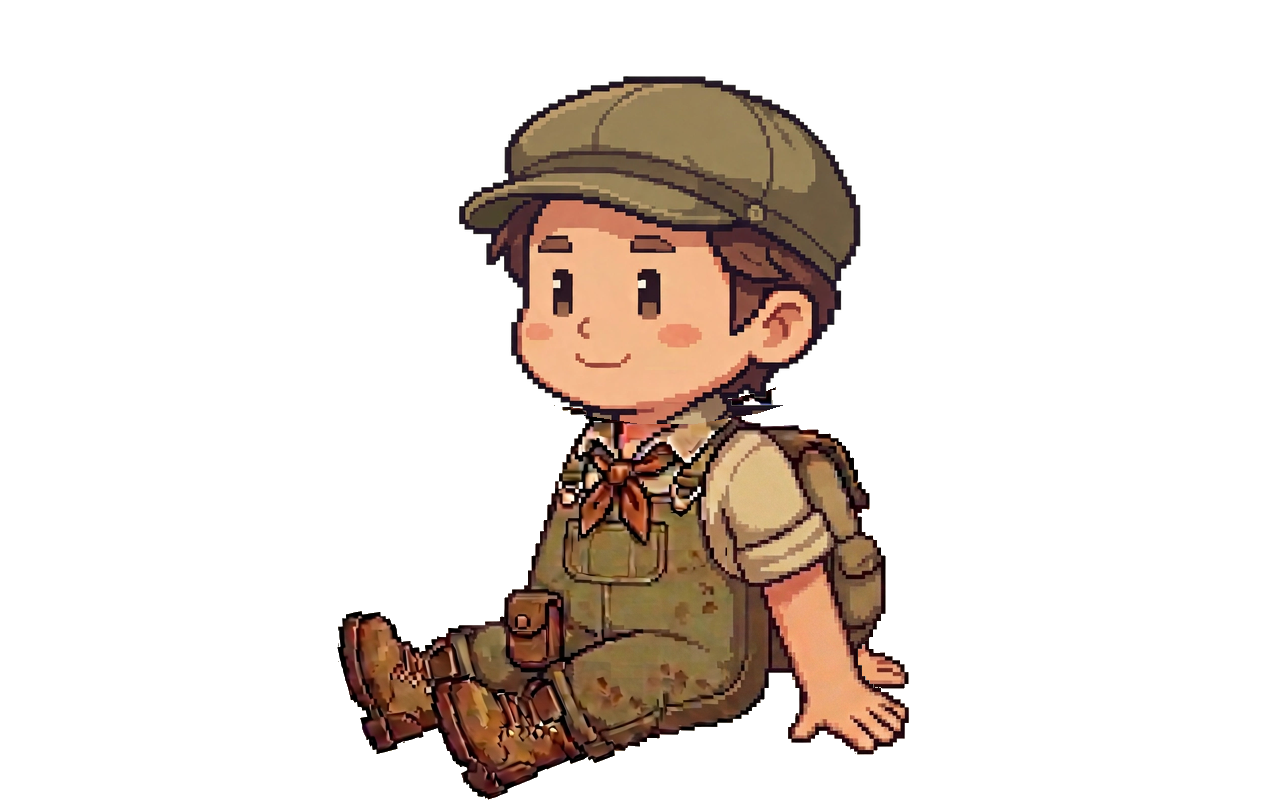
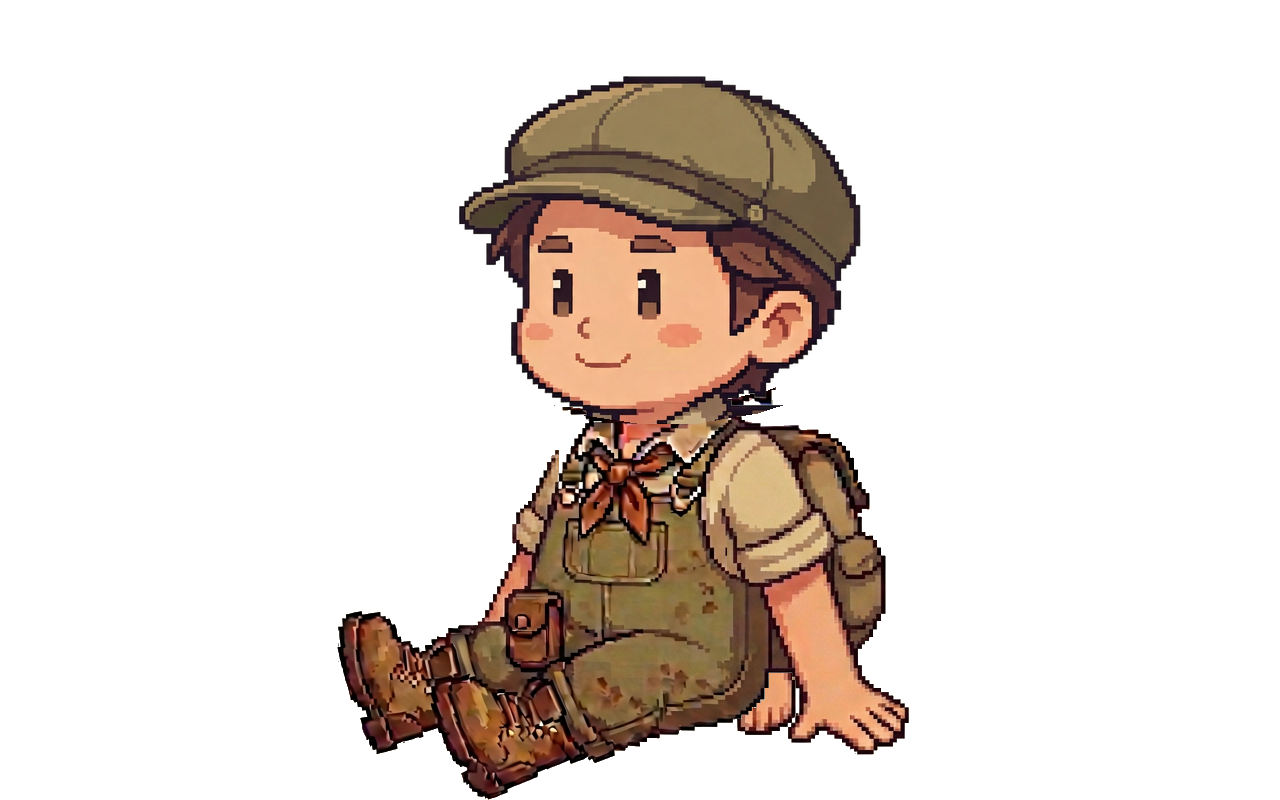
Move far seated hand closer to hip

Changed region(s): [[0.375, 0.5625, 0.4375, 0.7812], [0.5625, 0.8438, 0.625, 0.9375], [0.6562, 0.8125, 0.7188, 0.875]]

diff --git a/preview/app.js b/preview/app.js
@@ -1754,7 +1754,7 @@
   const characterShadowMasks=new WeakMap();
   const idleBowController=window.PlayerIdleBow.create();
   const idleBowFrames=Object.fromEntries(['front','back'].map(side=>[side,
-    ['transition','concept','sit-lowering','sit-nearly','sitting'].map(pose=>{const image=new Image();image.dataset.playerIdleBow='true';image.src=`./assets/player-idle-${side}-${pose}.png?v=10`;return image;})]));
+    ['transition','concept','sit-lowering','sit-nearly','sitting'].map(pose=>{const image=new Image();image.dataset.playerIdleBow='true';image.src=`./assets/player-idle-${side}-${pose}.png?v=11`;return image;})]));
   let idleBowAmount=0, idleSitAmount=0, idleBowSprite=null, waterEscapeKey=null;
   const idleBlend=document.createElement('canvas');idleBlend.width=512;idleBlend.height=800;
   idleBlend.dataset.playerIdleBow='true';
@@ -1995,7 +1995,7 @@
       ctx.beginPath();ctx.ellipse(x,y-.45*character.scale,4.6*character.scale,.8*character.scale,0,0,Math.PI*2);ctx.fill();
       if(seatWeight>0) {
         // Contact patches follow the illustrated hip and supporting palms, including mirrors.
-        const contacts=back?[[600,778,2.5],[395,774,1.3],[780,795,1.3]]:[[680,725,2.5],[850,751,1.3],[875,677,1.1]];
+        const contacts=back?[[600,778,2.5],[395,774,1.3],[780,795,1.3]]:[[680,725,2.5],[850,751,1.3],[765,727,1.1]];
         const dir=mirror?-1:1;ctx.globalAlpha=seatWeight;
         for(const [px,py,r] of contacts) {
           const cx=x+dir*(px-640)*width/1280,cy=y+(py-800)*height/800;

diff --git a/preview/index.html b/preview/index.html
@@ -18,7 +18,7 @@
   <script src="./tree-shadow.js?v=1" defer></script>
   <script src="./player-idle-bow.js?v=8" defer></script>
   <script src="./sparrow-pet.js?v=5" defer></script>
-  <script src="./app.js?v=sky-253" defer></script>
+  <script src="./app.js?v=sky-254" defer></script>
   <script src="./preview-modes.js?v=2" defer></script>
   <script src="./editor-camera.js?v=7" defer></script>
   <script src="./terrain-tools.js?v=107" defer></script>

diff --git a/tools/build_player_idle_sitting.py b/tools/build_player_idle_sitting.py
@@ -24,25 +24,36 @@ for view in ('front','back'):
             file={'front':{'sitting':'sit-front-hands-corrected.png','nearly':'sit-redraw-near-front.png'},
                   'back':{'sitting':'sit-redraw-final-back.png','nearly':'sit-redraw-near-back.png'}}[view][frame]
             if view=='front':
-                # Reposition the near supporting arm while keeping the far hand
-                # behind it. Both poses use this same patch, avoiding arm jumps.
+                # The near arm remains behind the hip. The far shoulder and a
+                # short upper-arm section are visible on the opposite side;
+                # only fingertips emerge from beneath the hip/leg.
                 original=Image.open(ART/'sit-front-hands-corrected.png').convert('RGB')
                 arm=Image.open(ART/'sit-front-hand-back-study.png').convert('RGB')
+                far=Image.open(ART/'sit-front-far-hand-side-study-v3.png').convert('RGB')
+                fingertips=Image.open(ART/'sit-front-far-hand-side-study.png').convert('RGB')
                 pose=Image.open(ART/file).convert('RGB')
-                if pose.size!=original.size or arm.size!=original.size:raise ValueError('front study coordinates differ')
-                # Recover the previously visible far hand only through the new
-                # foreground arm's background: it stays correctly occluded.
-                oldpx=original.load();newpx=arm.load()
+                if any(im.size!=original.size for im in (pose,arm,far,fingertips)):raise ValueError('front study coordinates differ')
+                mask=Image.new('L',pose.size)
+                ImageDraw.Draw(mask).polygon([(740,420),(900,420),(1020,520),(1020,760),(740,760)],fill=255)
+                pose.paste(arm,(0,0),mask)
+                side=Image.new('L',pose.size)
+                if frame=='sitting':
+                    points=[(503,466),(571,442),(569,548),(554,579),(548,619),(503,637),(486,620),(494,558)]
+                else:
+                    # The raised knee covers the lower part of the far arm.
+                    points=[(518,466),(571,442),(569,530),(548,537),(517,535)]
+                ImageDraw.Draw(side).polygon(points,fill=255);pose.paste(far,(0,0),side)
+                # Reveal only the hand through background gaps, behind the
+                # overalls and foreground arm rather than cutting a wrist off.
                 def background(rgb):
                     r,g,b=rgb
                     return r>210 and g>195 and b>175 and abs(r-g)<35 and abs(g-b)<40
-                for yy in range(635,685):
-                    for xx in range(840,930):
-                        if background(newpx[xx,yy]) and not background(oldpx[xx,yy]):
-                            newpx[xx,yy]=oldpx[xx,yy]
-                mask=Image.new('L',pose.size)
-                ImageDraw.Draw(mask).polygon([(740,420),(900,420),(1020,520),(1020,760),(740,760)],fill=255)
-                pose.paste(arm,(0,0),mask);tmp=ART/'.front-arm-corrected.png';pose.save(tmp)
+                dst=pose.load();source=fingertips.load()
+                for yy in range(635,735):
+                    for xx in range(730,810):
+                        if background(dst[xx,yy]) and not background(source[xx,yy]):
+                            dst[xx,yy]=source[xx,yy]
+                tmp=ART/'.front-arm-corrected.png';pose.save(tmp)
                 try: im,box=extract(tmp)
                 finally: tmp.unlink()
             else:
@@ -70,13 +81,14 @@ for view in ('front','back'):
         if frame in ('nearly','sitting'):
             # Small enclosed background pockets between arms/legs cannot be reached
             # by border flood fill. Limit cleanup to their known transparent regions.
-            region=(830,625,848,705) if view=='front' else (809,675,831,699)
+            regions=[(830,625,848,705),(725,665,800,735)] if view=='front' else [(809,675,831,699)]
             px=canvas.load()
-            for yy in range(region[1],region[3]):
-                for xx in range(region[0],region[2]):
-                    r,g,b,a=px[xx,yy]
-                    if a and r>210 and g>200 and b>180 and max(r,g,b)-min(r,g,b)<45:
-                        px[xx,yy]=(0,0,0,0)
+            for region in regions:
+                for yy in range(region[1],region[3]):
+                    for xx in range(region[0],region[2]):
+                        r,g,b,a=px[xx,yy]
+                        if a and (r>210 and g>195 and b>175 and abs(r-g)<35 and abs(g-b)<40 if view=='front' else r>210 and g>200 and b>180 and max(r,g,b)-min(r,g,b)<45):
+                            px[xx,yy]=(0,0,0,0)
         suffix={'lowering':'sit-lowering','nearly':'sit-nearly','sitting':'sitting'}[frame]
         name=f'player-idle-{view}-{suffix}.png';dest=ROOT/'preview/assets'/name
         canvas.save(dest,optimize=True)

diff --git a/tools/test_player_idle_sprites.py b/tools/test_player_idle_sprites.py
@@ -46,7 +46,9 @@ def skin(pixel):
 for pose in ('sitting','sit-nearly'):
     im=Image.open(root/f'preview/assets/player-idle-front-{pose}.png').convert('RGBA')
     assert sum(map(skin,im.crop((925,560,960,715)).getdata()))==0, 'duplicate far forearm must be occluded'
-    assert sum(map(skin,im.crop((840,640,910,690)).getdata()))>100, 'far supporting hand remains visible'
+    assert sum(map(skin,im.crop((720,675,790,738)).getdata()))>500, 'far hand should emerge beside the hip'
+    assert sum(map(skin,im.crop((480,535,530,630)).getdata()))>200, 'a small section of the far arm should remain visible'
+    assert not any(a and r>210 and g>195 and b>175 and abs(r-g)<35 and abs(g-b)<40 for r,g,b,a in im.crop((730,665,800,735)).getdata()), 'no trapped cream background around the hand'
 # The near supporting hand must move backward on the image, without shifting
 # the whole body or losing the separately occluded far hand.
 def hand_mean_x(image, dx, dy):

diff --git a/app/src/main/java/dev/retrobit/gtlauncher/WeatherSkyView.java b/app/src/main/java/dev/retrobit/gtlauncher/WeatherSkyView.java
@@ -1143,7 +1143,7 @@ public final class WeatherSkyView extends View {
             canvas.drawOval(new RectF(x-4.6f*characterScale,y-1.25f*characterScale,x+4.6f*characterScale,y+.35f*characterScale),paint);
             if(seatWeight>0) {
                 float[][] contacts=back?new float[][]{{600,778,2.5f},{395,774,1.3f},{780,795,1.3f}}
-                        :new float[][]{{680,725,2.5f},{850,751,1.3f},{875,677,1.1f}};
+                        :new float[][]{{680,725,2.5f},{850,751,1.3f},{765,727,1.1f}};
                 paint.setColor(Color.argb(Math.round(97*seatWeight),12,23,30));
                 for(float[] p:contacts) {
                     float cx=x+(mirror?-1:1)*(p[0]-640)*width/1280f,cy=y+(p[1]-800)*height/800f;

diff --git a/docs/player-idle-bow.md b/docs/player-idle-bow.md
@@ -23,3 +23,5 @@ Tangan dekat tampak depan digeser ke belakang dengan lengan bawah miring, sement
 ## Keluar dari air saat idle (preview)
 
 Pada preview dengan animasi aktif, setelah diam lima detik di air player berjalan otomatis ke block kering terdekat yang dapat dicapai dengan aturan rute normal. Hitungan idle yang sudah berlalu disimpan selama perjalanan otomatis dan dilanjutkan saat tiba; gerakan atau pengalihan tujuan oleh pengguna membatalkan kelanjutan hitungan. Jika tidak ada block kering yang dapat dicapai, player tetap di air dan siklus membungkuk tetap berjalan. Reduced motion menonaktifkan perilaku idle otomatis ini. Perilaku keluar dari air belum diterapkan di Android.
+
+Penyesuaian tangan jauh tampak depan: telapak dipindahkan mendekati sisi pinggul, sementara sedikit lengan dan lengan baju di sisi berlawanan terlihat. Sebagian besar lengan jauh tertutup badan/kaki; frame duduk dan lutut tertekuk memakai patch yang sama serta bayangan kontak yang disesuaikan. Transisi masih crossfade dan sambungan tidak menggunakan rig anatomis. Aset Android identik dengan preview, tetapi belum diuji di perangkat.
